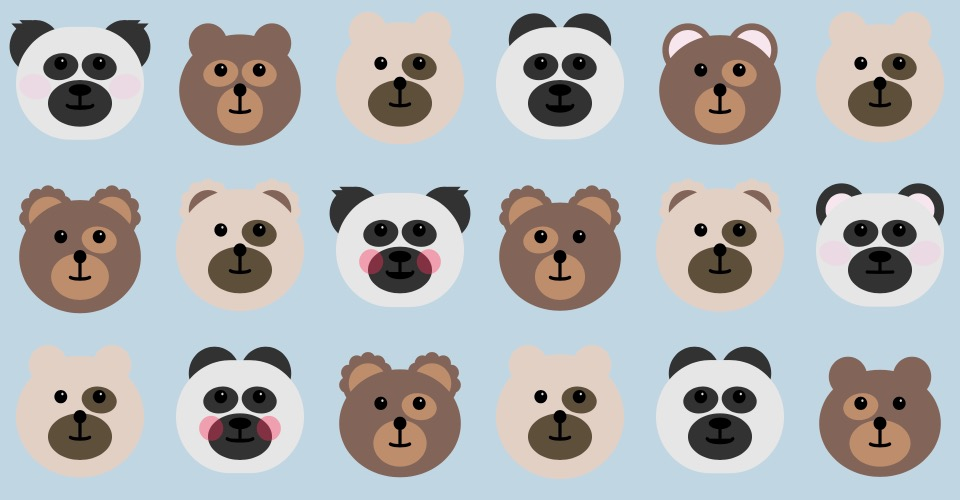
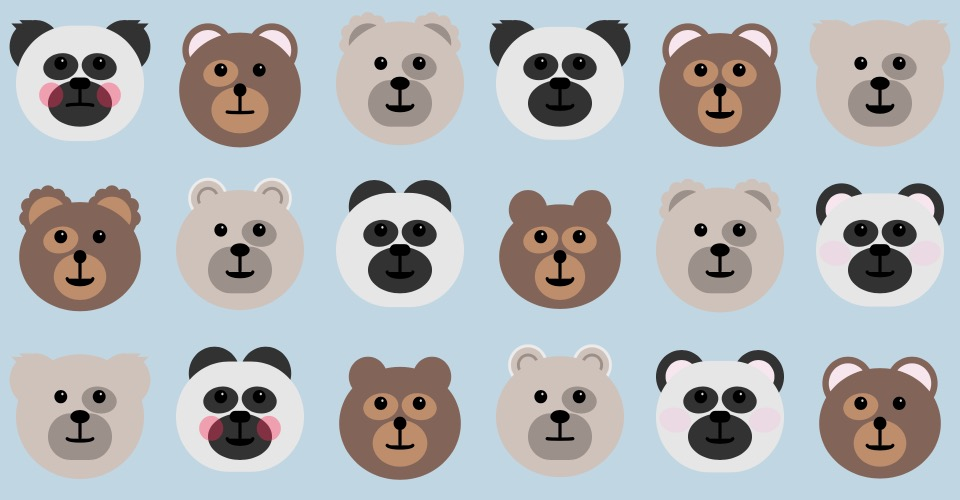
updated face3

diff --git a/face_code.js b/face_code.js
@@ -9,11 +9,11 @@
 
 //COLOURS
 
-let dark_brown = "#5e4f3a";
+let dark_brown = "#9c908a";
 let mid_brown = "#826558";
 let light_brown = "#bd8d6c";
 let light_pink = "#f7e6ee";
-let beige = "#e3d0c5";
+let beige = "#cfc2ba";
 
 
 //********FACE ONE*******// (PANDA)
@@ -88,7 +88,7 @@ function drawFace1(tallness1, ear_type1, cheek_type1, mouth1) {
   rectMode(CENTER);
   rect(0, 0, 20, head_height1, 10);
 
-  //EYES
+  //********EYES*****/
   fill(50);
 
   //Left Eye Patch
@@ -112,7 +112,7 @@ function drawFace1(tallness1, ear_type1, cheek_type1, mouth1) {
   ellipse(-2.75, -3.4, 0.35, 0.4);
   ellipse(3.25, -3.4, 0.35, 0.4);
 
-  //MOUTH
+  //********MOUTH*****/
   fill(50);
   ellipse(0, 3, 10, 7);
   fill(0);
@@ -152,9 +152,10 @@ function drawFace1(tallness1, ear_type1, cheek_type1, mouth1) {
 
   }
 
-  //NOSE
+  //********NOSE*******/
   fill(0);
-  ellipse(0, 1, 3.5, 1.75);
+  rectMode(CENTER);
+  rect(0,0, 3.25, 1.75, 5);
 
 
 }
@@ -165,16 +166,17 @@ function drawFace1(tallness1, ear_type1, cheek_type1, mouth1) {
 /*
  * thinness_value ranges from 0-100 and indicates how thin the face is
  */
-function drawFace2(tallness2, ear_type2, eye_type, mouth_size) {
+function drawFace2(tallness2, ear_type2, eye_type, mouth_size, mouth2) {
   fill(mid_brown);
   noStroke();
   let head_height2 = map(tallness2, 0, 100, 15, 18);
   let mouth_width = map(mouth_size, 0, 100, 6, 10);
+  let mouth_curve2 = map(mouth2, 0, 100, -5, 5);
 
   push();
   translate(0, 1); //TO KEEP WITHIN BOUNDING BOX.
 
-  //EARS
+  //********EARS*****/
   //MAP TO HEAD HEIGHT !!!
 
   //EAR TYPE ONE
@@ -209,16 +211,15 @@ function drawFace2(tallness2, ear_type2, eye_type, mouth_size) {
     ellipse(5, -6, 6);
 }
 
-//EAR TYPE 3 
+  //EAR TYPE THREE
   else if(ear_type2 == 3){
     ellipse(-5, -7, 6);
     ellipse(5, -7, 6);
   }
   
 
-  //EAR TYPE THREE
 
-  //HEAD
+  //********HEAD*****/
   fill(mid_brown);
   ellipse(0, 0, 19, head_height2);
 
@@ -261,7 +262,6 @@ function drawFace2(tallness2, ear_type2, eye_type, mouth_size) {
     pop();
   }
 
-
   //Eyeballs
   fill(0);
   ellipse(-3, -3, 2);
@@ -270,19 +270,19 @@ function drawFace2(tallness2, ear_type2, eye_type, mouth_size) {
   ellipse(-2.75, -3.4, 0.35, 0.4);
   ellipse(3.25, -3.4, 0.35, 0.4);
 
-  //MOUTH
+
+  //*******MOUTH**********/
   fill(light_brown);
   ellipse(0, 3, mouth_width, 7);
   fill(0);
   rectMode(CENTER);
   rect(0, 2, 0.5, 2.75, 5);
-  noFill();
   stroke(0);
   strokeWeight(0.5);
-  curve(-1, 1, -1.5, 3.1, 1.5, 3.1, 1, 1);
+  curve(0, mouth_curve2, -2, 3.3, 2, 3.3, 0, mouth_curve2);
   noStroke();
 
-  //NOSE
+  //*******NOSE**********/
   fill(0);
   ellipse(0, 0, 2);
 
@@ -297,16 +297,57 @@ function drawFace2(tallness2, ear_type2, eye_type, mouth_size) {
  * eye_value is an integer number of eyes: either 0, 1, 2, or 3
  * mouth_value is how open the mouth is and should generally range from 0.5 to 10
  */
-function drawFace3(tallness3, ear_type3) {
+function drawFace3(tallness3, ear_type3, mouth3) {
   fill(beige);
   noStroke();
   rectMode(CENTER);
   let head_height3 = map(tallness3, 0, 100, 17, 20);
+  let mouth_curve3 = map(mouth3, 0, 100, -5, 5);
 
   //*********EARS******/
 
-  //EARS 1
+  //EAR TYPE 1
   if(ear_type3 == 1){
+    ellipse(-7, -5.5, 8);
+    ellipse(7, -5.5, 8);
+    push();
+    translate(-9.48, -9.48);
+    beginShape();
+    vertex(0,0);
+    vertex(2,2);
+    vertex(2,0);
+    vertex(0, 0);
+    endShape(CLOSE);
+    translate(-1.25, 0.5);
+    beginShape();
+    vertex(0,0);
+    vertex(2,2);
+    vertex(2,0);
+    vertex(0, 0);
+    endShape(CLOSE);
+    pop();
+
+    push();
+    translate(9.48, -9.48);
+    beginShape();
+    vertex(0,0);
+    vertex(-2,2);
+    vertex(-2,0);
+    vertex(0, 0);
+    endShape(CLOSE);
+    translate(1.25, 0.5);
+    beginShape();
+    vertex(0,0);
+    vertex(-2,2);
+    vertex(-2,0);
+    vertex(0, 0);
+    endShape(CLOSE);
+    pop();
+    
+  }
+    
+  //EAR TYPE 2
+  else if(ear_type3 == 2){
     ellipse(-5, -6, 8);
     ellipse(-8.3, -5.75, 2.4);
     ellipse(-8, -7.6, 2.4);
@@ -323,18 +364,29 @@ function drawFace3(tallness3, ear_type3) {
     ellipse(3.5, -9, 2.4);
     ellipse(2.5, -7.9, 2.4);
 
-    fill(mid_brown);
+    fill(dark_brown);
     ellipse(-5, -6, 6);
     ellipse(5, -6, 6);
   }
-    
-  //EARS 2
-  else if(ear_type3 == 2){
+
+  //EAR TYPE 3
+  else if(ear_type3 == 3){
     ellipse(-5, -7.75, 6);
     ellipse(5, -7.75, 6);
+
+    stroke(dark_brown);
+    strokeWeight(0.45);
+    ellipse(-5, -7.75, 3);
+    ellipse(5, -7.75, 3);
+    stroke(235);
+    noFill();
+    ellipse(-5, -7.75, 5.75);
+    ellipse(5, -7.75, 5.75);
+    noStroke();
   }
-  
-  //HEAD
+    
+
+  //******HEAD******/
   fill(beige);
   ellipse(0, 0, 20, head_height3);
 
@@ -360,18 +412,30 @@ function drawFace3(tallness3, ear_type3) {
   ellipse(-2.75, -3.4, 0.35, 0.4);
   ellipse(3.25, -3.4, 0.35, 0.4);
 
-  //MOUTH
+  //*******MOUTH**********/
+  
   fill(dark_brown);
-  ellipse(0, 3, 10, 7);
+  rectMode(CENTER);
+  rect(0, 3, 10, 7, 10);
   fill(0);
   rect(0, 2, 0.5, 2.75, 5);
-  noFill();
   stroke(0);
   strokeWeight(0.5);
-  curve(-1, 1, -1.5, 3.1, 1.5, 3.1, 1, 1);
+  curve(0, mouth_curve3, -2, 3.3, 2, 3.3, 0, mouth_curve3);
   noStroke();
 
-  //NOSE
+
+  //*******NOSE******/
+
   fill(0);
-  ellipse(0, 0, 2);
+  ellipse(0, 0, 3, 2);
+
+
+  
+
+
+
+
+
+
 }

diff --git a/arrangement.js b/arrangement.js
@@ -77,14 +77,16 @@ function draw () {
           let eye_values2 = [1, 2, 3];
           let eye_value2 = random(eye_values2);
           let mouth_value2 = focusedRandom(0, 100, 2);
-          drawFace2(tallness_value2, ear_value2, eye_value2, mouth_value2);
+          let mouth_curve2 = focusedRandom(0, 100);
+          drawFace2(tallness_value2, ear_value2, eye_value2, mouth_value2, mouth_curve2);
         }
         else {
           /********FACE THREE********/
           let tallness_value3 = focusedRandom(0,100,3);
-          let ear_values3 = [1,2];
+          let ear_values3 = [1,2,3];
           let ear_value3 = random(ear_values3);
-          drawFace3(tallness_value3, ear_value3);
+          let mouth_value3 = focusedRandom(0,100);
+          drawFace3(tallness_value3, ear_value3, mouth_value3);
         }
         pop();
     }

diff --git a/editor.js b/editor.js
@@ -33,7 +33,7 @@ function setup () {
   faceSelector.option('1');
   faceSelector.option('2');
   faceSelector.option('3');
-  faceSelector.value('1');
+  faceSelector.value('3');
   faceSelector.parent('selector1Container');
 }
 
@@ -76,13 +76,13 @@ function draw () {
     // draw 2nd face 
     let ear_value2 = int(map(s2, 0, 100, 1, 3));
     let eye_value2 = int(map(s3, 0, 100, 1, 3));
-    drawFace2(s1, ear_value2, eye_value2, s4);
+    drawFace2(s1, ear_value2, eye_value2, s4, s5);
   }
 
   if (mode == '3') {
     // draw 3rd face 
-    let ear_value3 = int(map(s2, 0, 100, 1, 2));
-    drawFace3(s1, ear_value3);
+    let ear_value3 = int(map(s2, 0, 100, 1, 3));
+    drawFace3(s1, ear_value3, s3);
   }
   pop();
 

diff --git a/README.md b/README.md
@@ -3,3 +3,5 @@
 FACES ONE AND TWO
 
 So far I have put my parameters for face 1 (Panda) which are : face height, mouth curve, ear type and cheek type/blush and for face 2 (Brown Bear) which are : face height, mouth width, ear type, and eye patches type. I am going to have three ear types for each bear and am aiming to have three options for all of the discrete variables. I still need to finish adding my parameters for face three and then refine the overall look and function of my faces and the arrangement. I would like to create more differences between the faces so I will continue to work on that. 
+
+UPDATE: I have updated some of face 3 (ears and colours) and added mouth curve to face 1.
